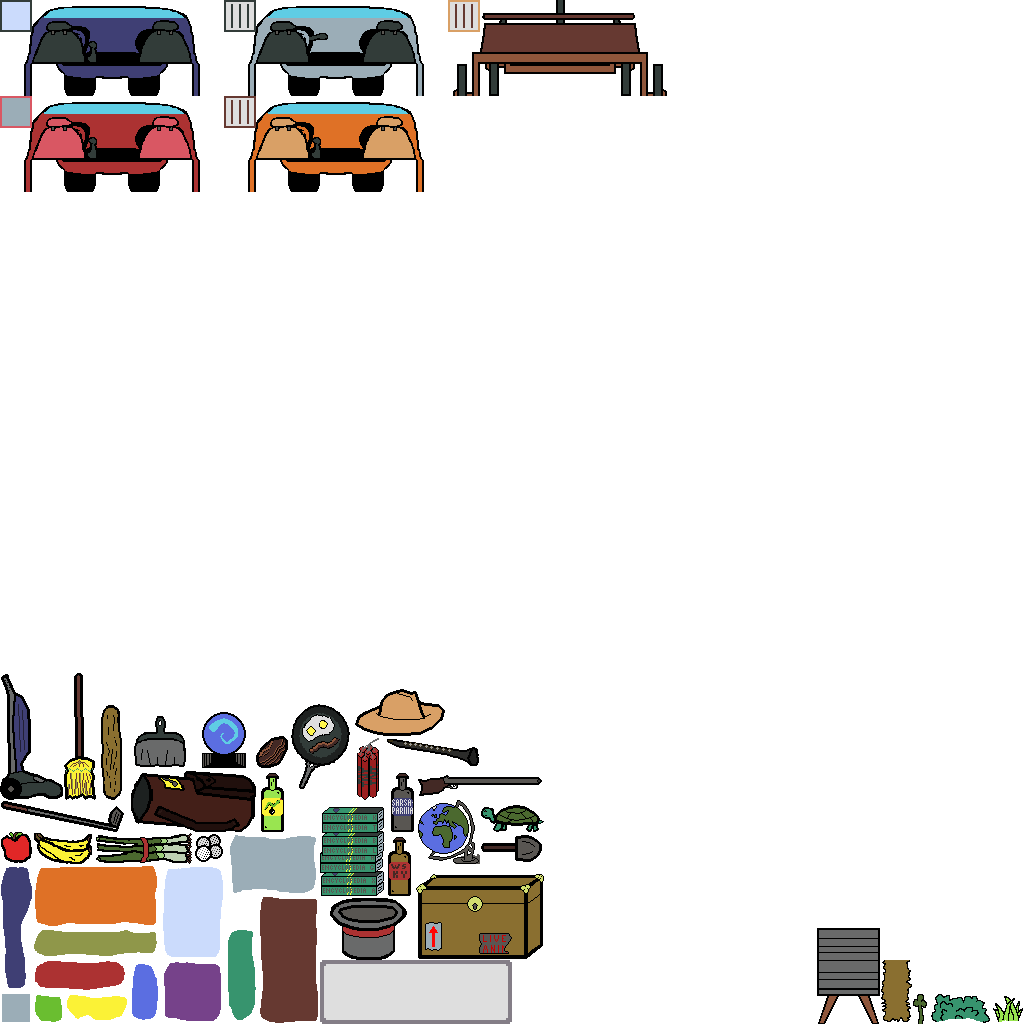
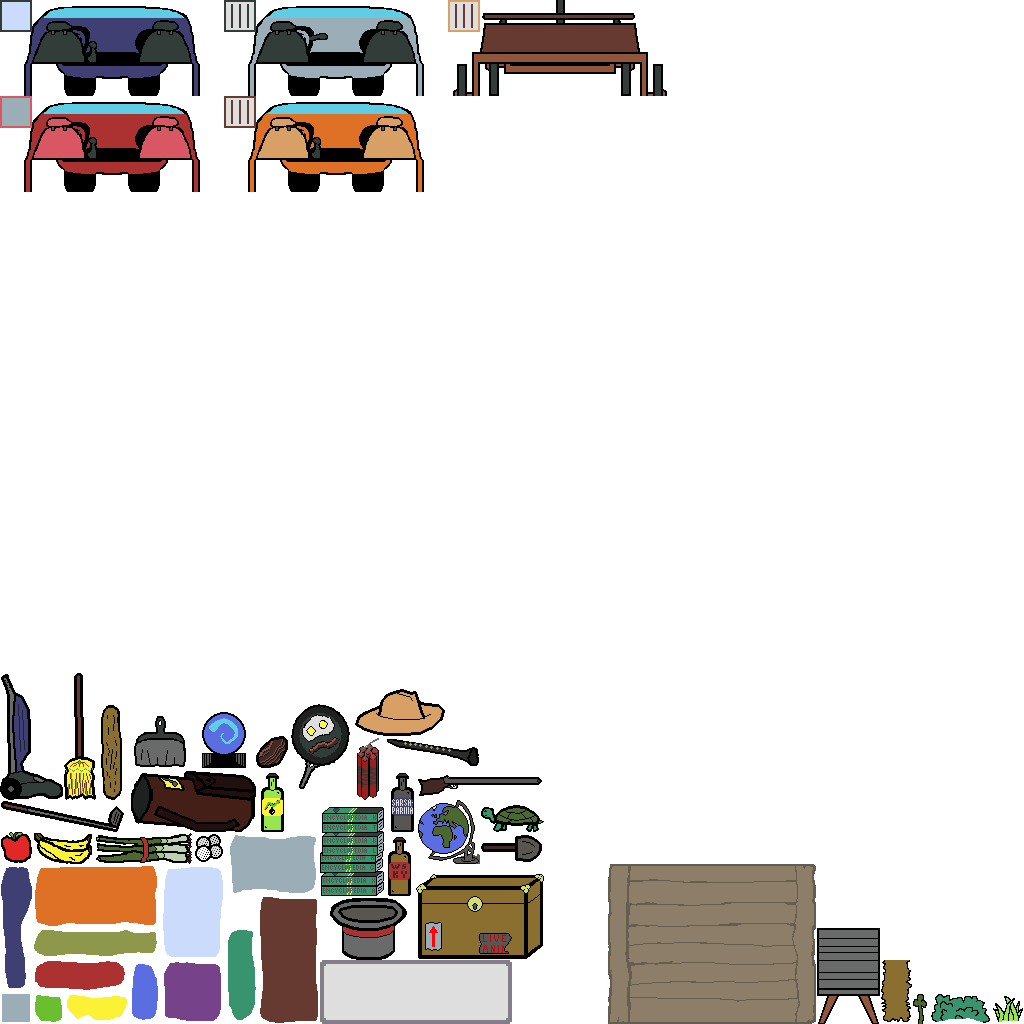
added sign

Changed region(s): [[0.5938, 0.8438, 0.8125, 1.0]]

diff --git a/internal/systems/packing.go b/internal/systems/packing.go
@@ -169,7 +169,7 @@ func UpdateTimer() {
 
 func LoadSellLabels() {
 	if data.WareNameLabelOne == nil {
-		data.WareNameLabelOne = typeface.New("main", typeface.NewAlign(typeface.Center, typeface.Center), 1.2, 0.09, 0, 0.)
+		data.WareNameLabelOne = typeface.New("main", typeface.NewAlign(typeface.Center, typeface.Center), 1.2, 0.1, 0, 0.)
 		data.WareNameLabelOne.Obj.Layer = 30
 		data.WareNameLabelOne.SetColor(pixel.ToRGBA(colornames.Black))
 		data.WareNameLabelOne.SetPos(pixel.V(slotX, rightQueueY(0)-30))
@@ -180,7 +180,7 @@ func LoadSellLabels() {
 			AddComponent(myecs.DrawTarget, data.GameView)
 	}
 	if data.WareNameLabelTwo == nil {
-		data.WareNameLabelTwo = typeface.New("main", typeface.NewAlign(typeface.Center, typeface.Center), 1.2, 0.09, 0, 0.)
+		data.WareNameLabelTwo = typeface.New("main", typeface.NewAlign(typeface.Center, typeface.Center), 1.2, 0.11, 0, 0.)
 		data.WareNameLabelTwo.Obj.Layer = 30
 		data.WareNameLabelTwo.SetColor(pixel.ToRGBA(colornames.Black))
 		data.WareNameLabelTwo.SetPos(pixel.V(slotX, rightQueueY(1)-30))
@@ -191,7 +191,7 @@ func LoadSellLabels() {
 			AddComponent(myecs.DrawTarget, data.GameView)
 	}
 	if data.WareNameLabelThree == nil {
-		data.WareNameLabelThree = typeface.New("main", typeface.NewAlign(typeface.Center, typeface.Center), 1.2, 0.09, 0, 0.)
+		data.WareNameLabelThree = typeface.New("main", typeface.NewAlign(typeface.Center, typeface.Center), 1.2, 0.12, 0, 0.)
 		data.WareNameLabelThree.Obj.Layer = 30
 		data.WareNameLabelThree.SetColor(pixel.ToRGBA(colornames.Black))
 		data.WareNameLabelThree.SetPos(pixel.V(slotX, rightQueueY(2)-30))
@@ -213,30 +213,24 @@ func UpdateSellLabels() {
 			if WareOne.SellMe && !WareOne.Sold {
 				data.WareNameLabelOne.SetText(fmt.Sprintf("Sell %s\nfor $%d", WareOne.Name, WareOne.Value))
 				data.WareNameLabelOne.Obj.Hidden = false
-			} else {
-				data.WareNameLabelOne.Obj.Hidden = true
 			}
 		}
-		if len(data.SellWares) > 1 {
-			WareTwo := data.SellWares[1]
-			if WareTwo != nil {
-				if WareTwo.SellMe && !WareTwo.Sold {
-					data.WareNameLabelTwo.SetText(fmt.Sprintf("Sell %s\nfor $%d", WareTwo.Name, WareTwo.Value))
-					data.WareNameLabelTwo.Obj.Hidden = false
-				} else {
-					data.WareNameLabelTwo.Obj.Hidden = true
-				}
+	}
+	if len(data.SellWares) > 1 {
+		WareTwo := data.SellWares[1]
+		if WareTwo != nil {
+			if WareTwo.SellMe && !WareTwo.Sold {
+				data.WareNameLabelTwo.SetText(fmt.Sprintf("Sell %s\nfor $%d", WareTwo.Name, WareTwo.Value))
+				data.WareNameLabelTwo.Obj.Hidden = false
 			}
-			if len(data.SellWares) > 2 {
-				WareThree := data.SellWares[2]
-				if WareThree != nil {
-					if WareThree.SellMe && !WareThree.Sold {
-						data.WareNameLabelThree.SetText(fmt.Sprintf("Sell %s\nfor $%d", WareThree.Name, WareThree.Value))
-						data.WareNameLabelThree.Obj.Hidden = false
-					} else {
-						data.WareNameLabelThree.Obj.Hidden = true
-					}
-				}
+		}
+	}
+	if len(data.SellWares) > 2 {
+		WareThree := data.SellWares[2]
+		if WareThree != nil {
+			if WareThree.SellMe && !WareThree.Sold {
+				data.WareNameLabelThree.SetText(fmt.Sprintf("Sell %s\nfor $%d", WareThree.Name, WareThree.Value))
+				data.WareNameLabelThree.Obj.Hidden = false
 			}
 		}
 	}

diff --git a/internal/systems/scoreboard.go b/internal/systems/scoreboard.go
@@ -25,6 +25,16 @@ var (
 )
 
 func ScoreboardInit() {
+	if data.Sign == nil {
+		obj := object.New()
+		obj.Layer = 2
+		obj.Pos = pixel.V(-170, 135)
+		spr := img.NewSprite("sign", constants.TestBatch)
+		data.Sign = myecs.Manager.NewEntity().
+			AddComponent(myecs.Object, obj).
+			AddComponent(myecs.Drawable, spr)
+	}
+
 	if data.LeftTitle == nil {
 		data.LeftTitle = typeface.New("main", typeface.NewAlign(typeface.Left, typeface.Top), 1.2, 0.15, 0, 0.)
 		data.LeftTitle.Obj.Layer = 30

diff --git a/internal/states/packing.go b/internal/states/packing.go
@@ -58,6 +58,7 @@ func (s *packingState) Load(win *pixelgl.Window) {
 		data.ScoreView.CamPos = pixel.V(0, data.ScoreView.Rect.H()*0.5)
 	}
 	if data.FirstLoad {
+		data.AbandonedWares = []*data.Ware{}
 		data.IsTimer = false
 		systems.CreateTruck()
 		data.SetDifficulty(data.PickedDiffKey)

diff --git a/internal/states/pause.go b/internal/states/pause.go
@@ -24,6 +24,7 @@ type pauseState struct {
 func (s *pauseState) Unload(win *pixelgl.Window) {
 	data.LeaveTransition = false
 	data.Paused = false
+	systems.HideAllMenus()
 }
 
 func (s *pauseState) Load(win *pixelgl.Window) {

diff --git a/internal/data/packing.go b/internal/data/packing.go
@@ -18,6 +18,7 @@ var (
 	LeftDrop       pixel.Rect
 	DepartureTimer *timing.Timer
 	IsTimer        bool
+	Sign           *ecs.Entity
 
 	LeavePacking bool
 	ScoreTween   *gween.Tween
